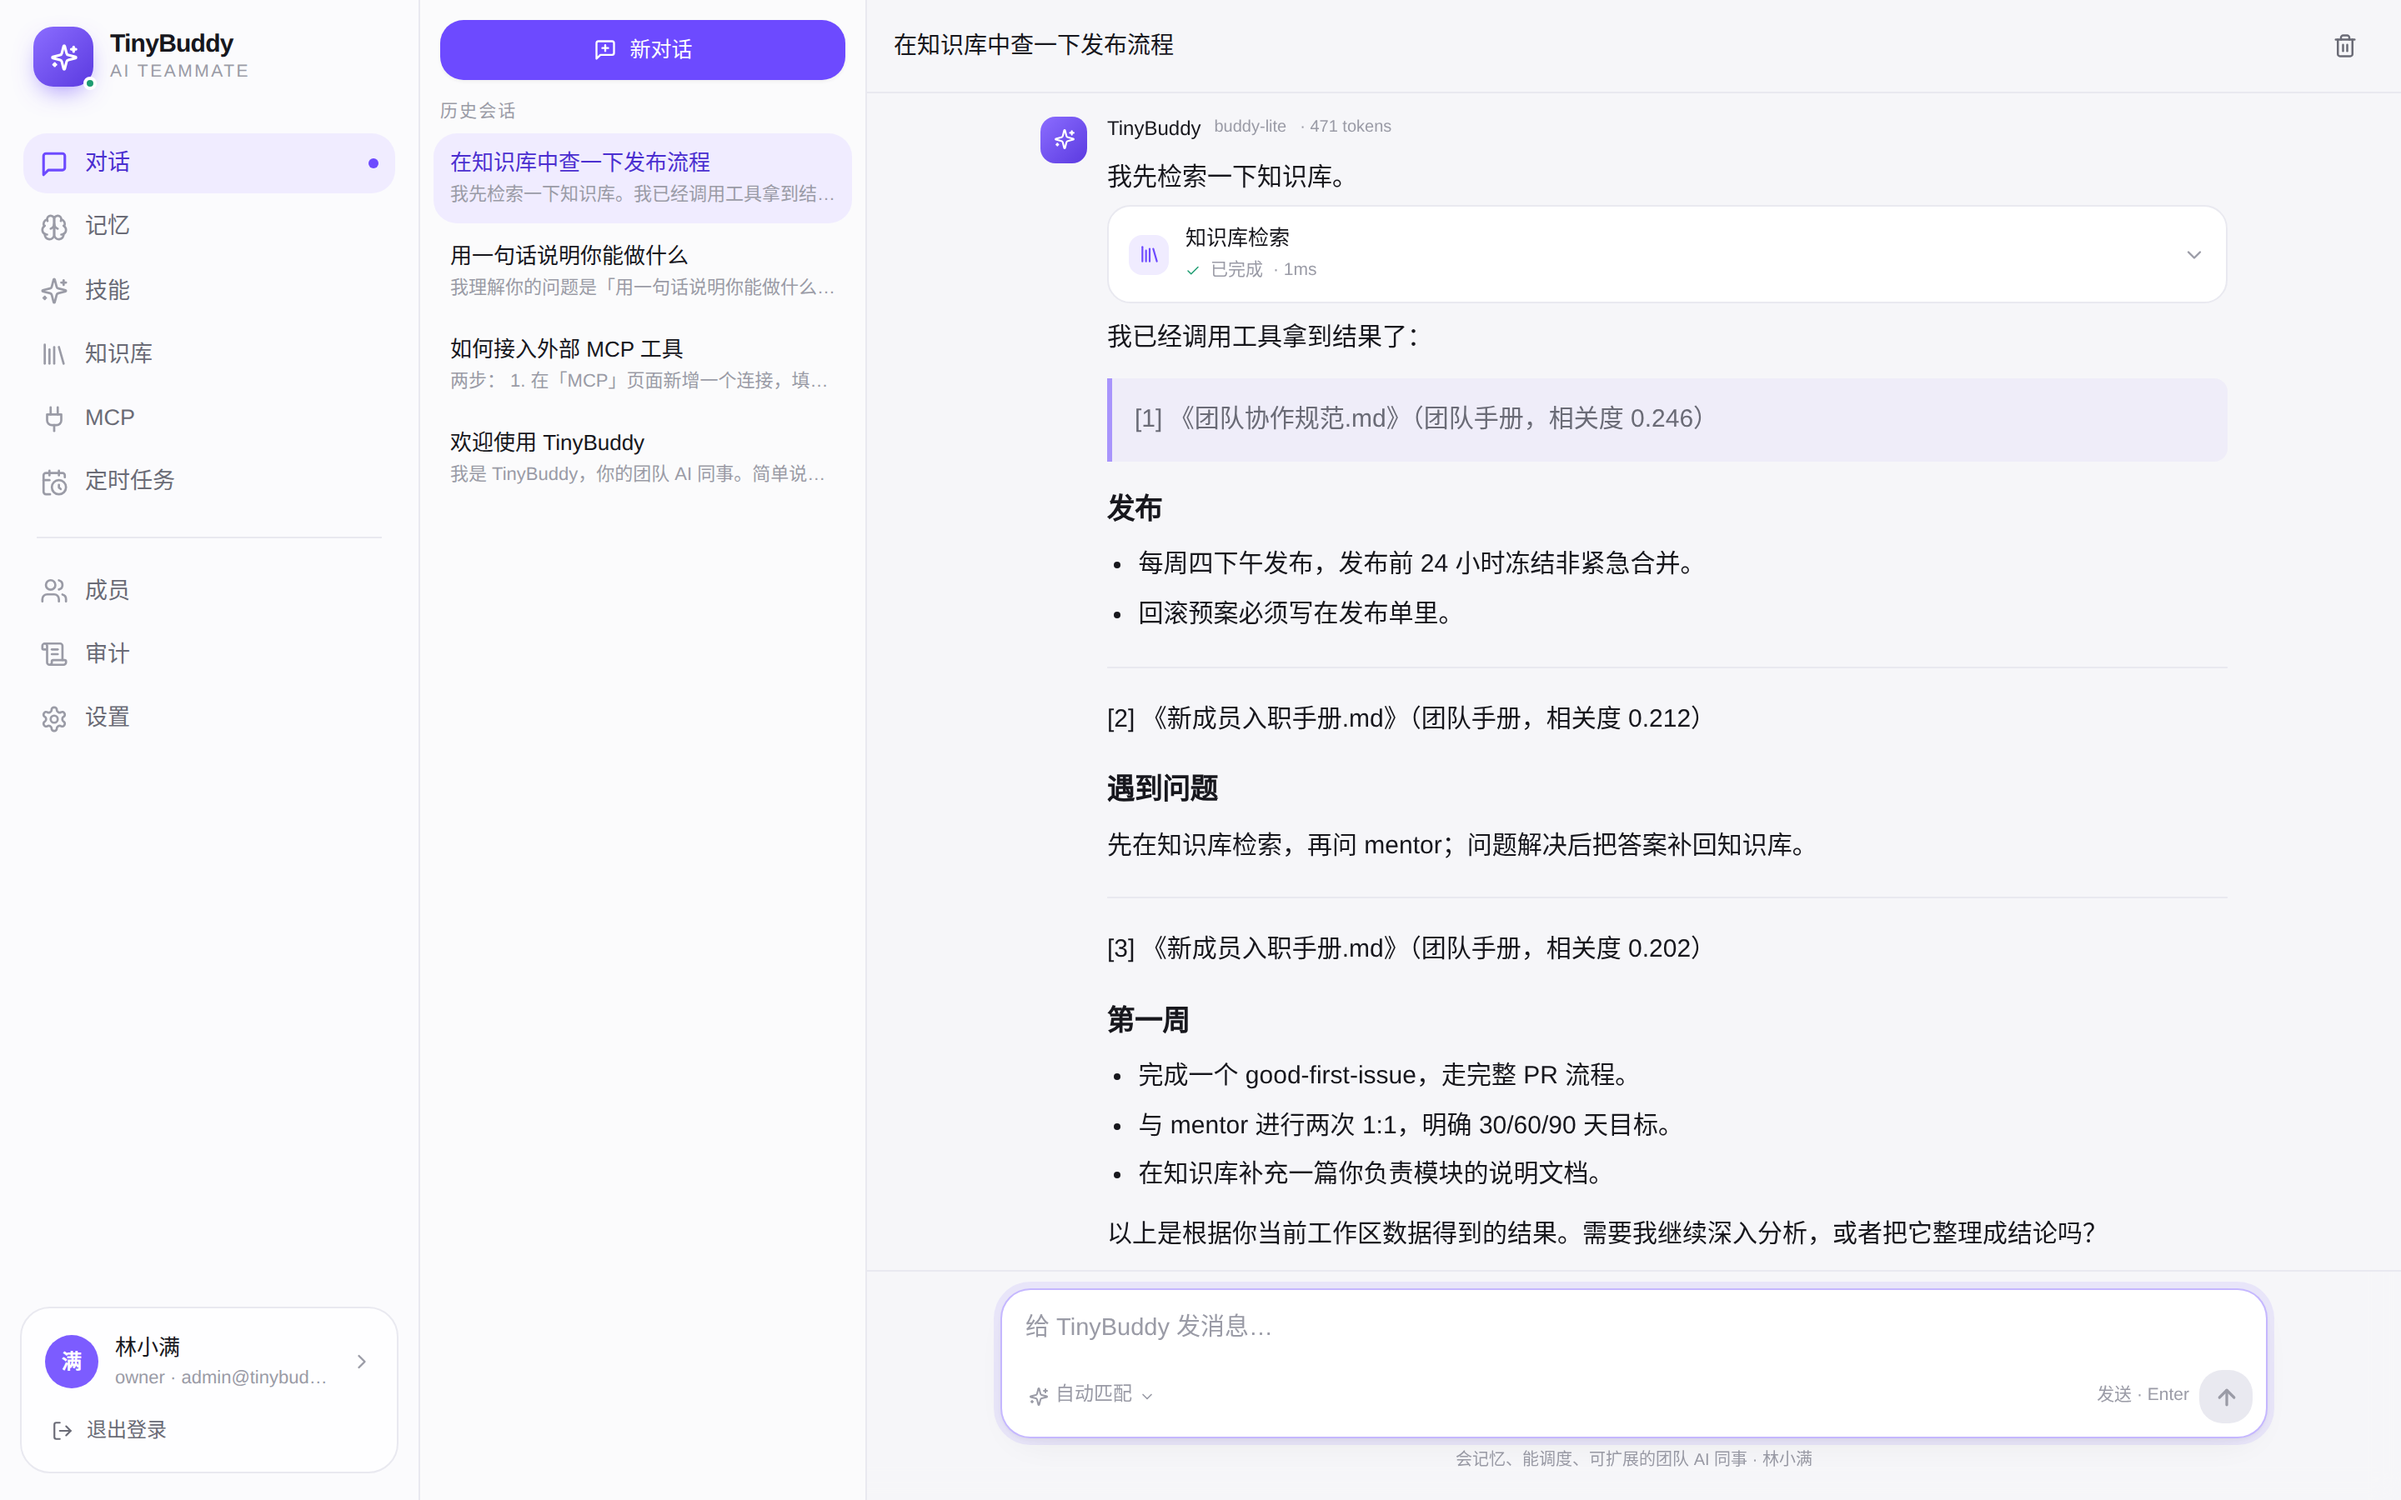
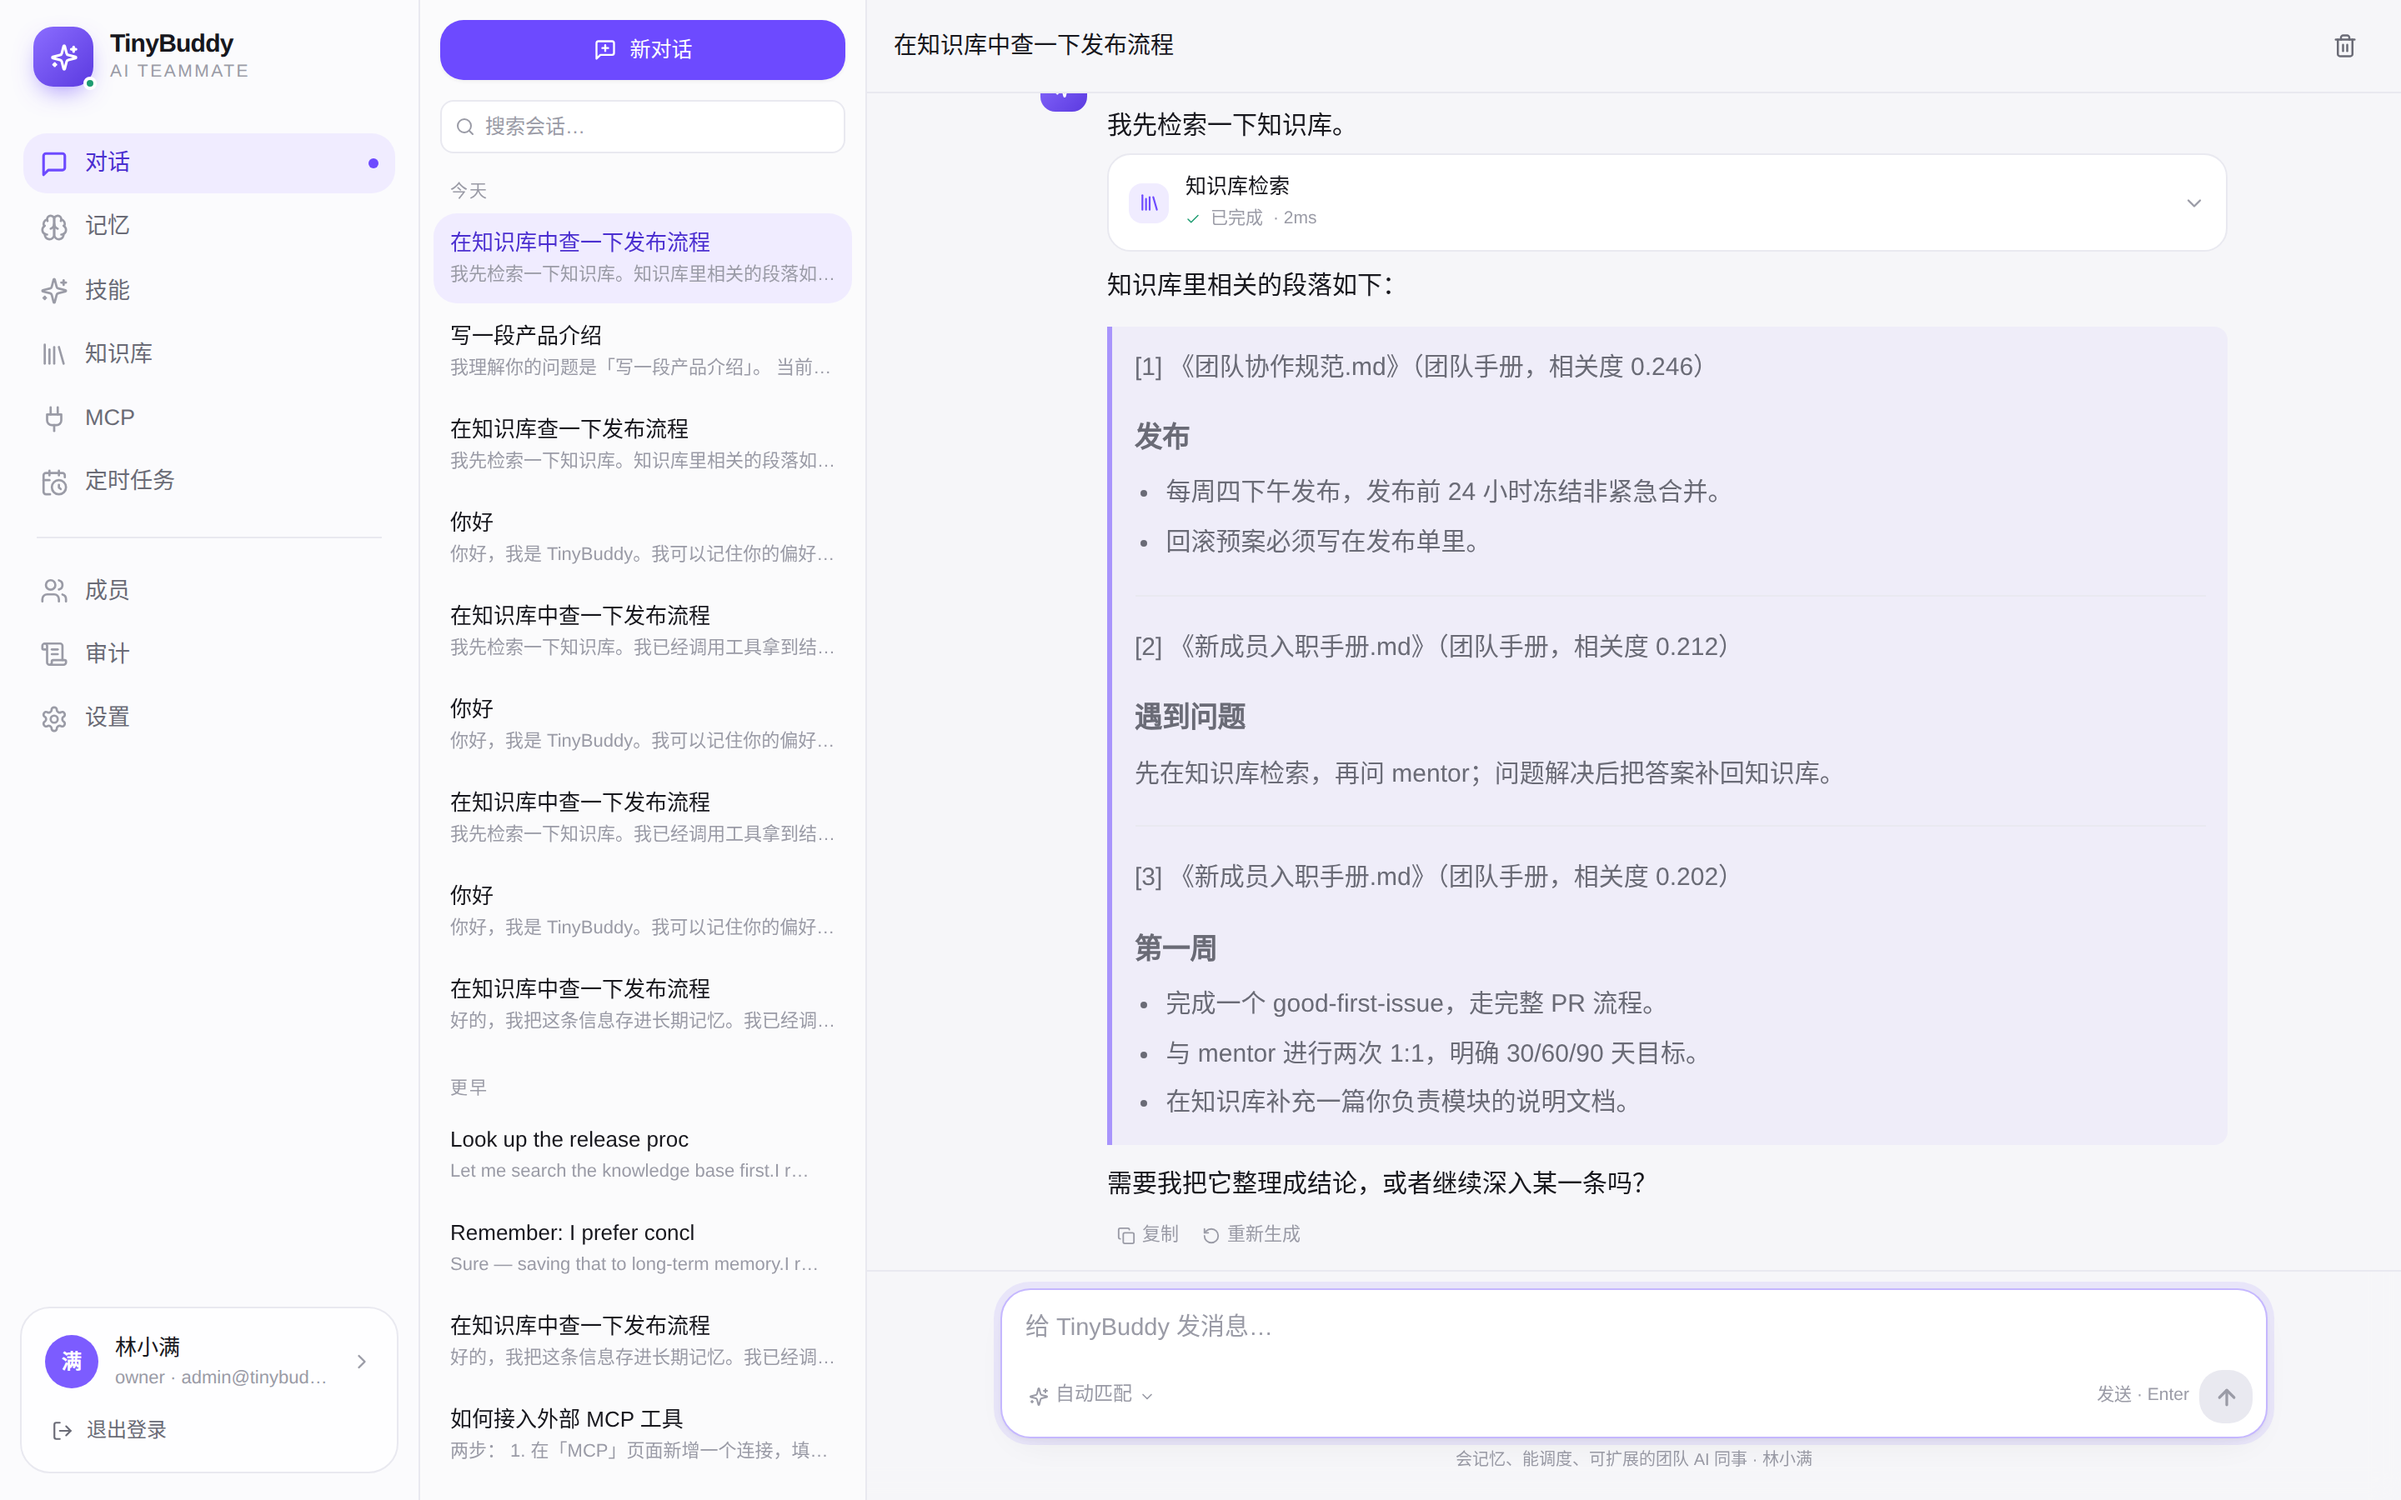
docs: refresh screenshots to match the updated chat UI
Chat with tool cards, mobile chat with message actions, and the new
session search panel.

diff --git a/README.md b/README.md
@@ -86,6 +86,10 @@ TinyBuddy 把 AI 当成一个**团队成员**来建模：
 | --- | --- |
 | ![知识库](./docs/screenshots/knowledge.png) | ![定时任务](./docs/screenshots/schedules.png) |
 
+**会话搜索与按日分组**（会话变多后仍能快速定位）
+
+![会话搜索](./docs/screenshots/session-search.png)
+
 | 成员与角色 | 审计日志 |
 | --- | --- |
 | ![成员](./docs/screenshots/members.png) | ![审计](./docs/screenshots/audit.png) |

diff --git a/README.en.md b/README.en.md
@@ -86,6 +86,10 @@ TinyBuddy models the AI as a **team member**:
 | --- | --- |
 | ![Knowledge](./docs/screenshots/knowledge.png) | ![Schedules](./docs/screenshots/schedules.png) |
 
+**Session search and day grouping**
+
+![Session search](./docs/screenshots/session-search.png)
+
 | Members and roles | Audit log |
 | --- | --- |
 | ![Members](./docs/screenshots/members.png) | ![Audit](./docs/screenshots/audit.png) |
